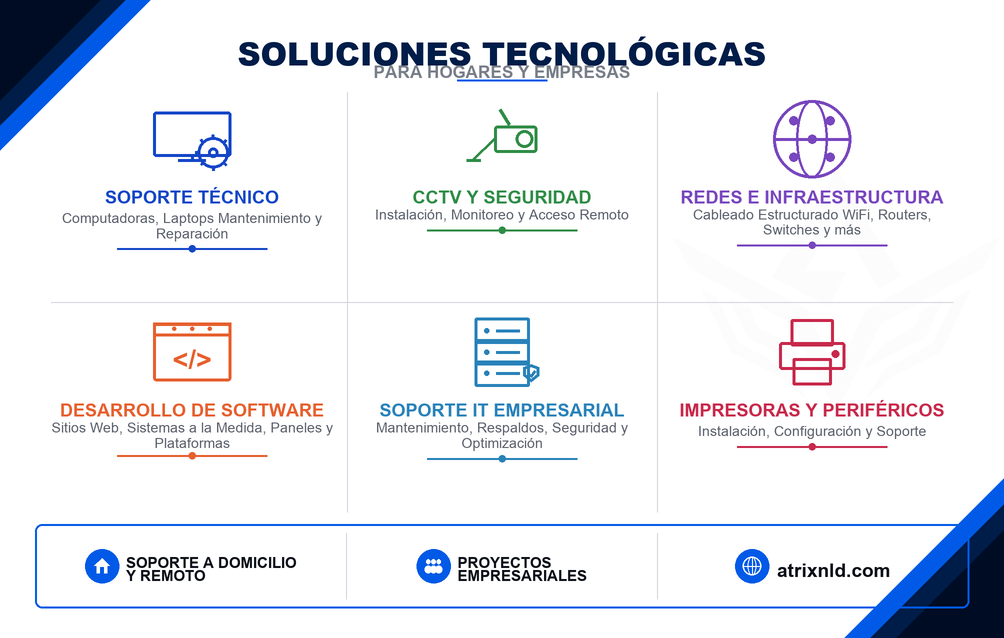
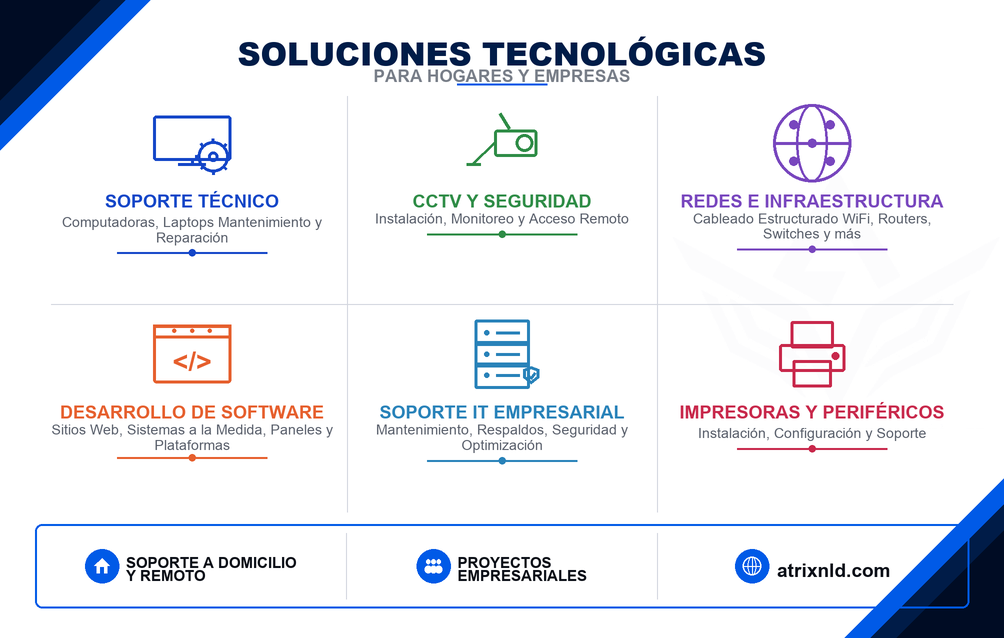
Increase vertical gap between reverse-card title and subtitle.

diff --git a/scripts/render_business_cards.py b/scripts/render_business_cards.py
@@ -444,7 +444,7 @@ def render_back() -> Image.Image:
     tw, th1 = text_size(draw, t1, title_f)
     draw.text(((W - tw) // 2, SAFE - 4), t1, fill=NAVY, font=title_f)
     tw2, th2 = text_size(draw, t2, sub_f)
-    sub_y = SAFE - 4 + th1 + 6
+    sub_y = SAFE - 4 + th1 + 14
     draw.text(((W - tw2) // 2, sub_y), t2, fill=MUTED, font=sub_f)
     rule_y = sub_y + th2 + 10
     draw.line([(W // 2 - 90, rule_y), (W // 2 + 90, rule_y)], fill=BLUE, width=4)
